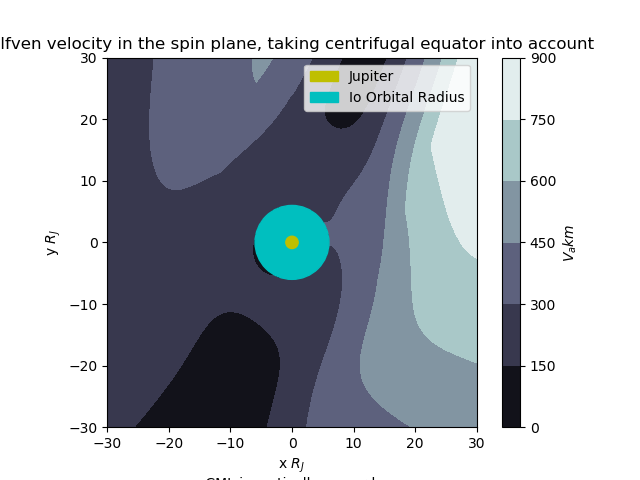
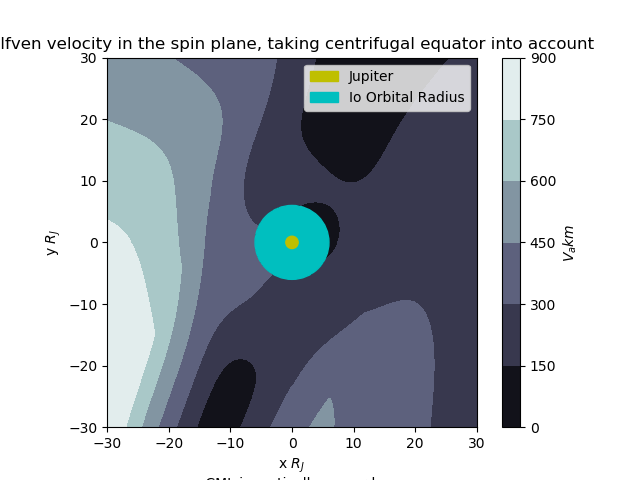
still being weird

diff --git a/alfven.py b/alfven.py
@@ -14,6 +14,7 @@ import scipy.special
 from density_height import DensityHeight
 from radial_outflow import radialOutflow
 from matplotlib import ticker, cm
+from field_and_current_sheet import InternalAndCS
 Rj = 7.14 * (10 ** 7)
 mu_0 = 1.25663706212 * 10 ** -6
 
@@ -29,6 +30,7 @@ class AlfvenVel:
         self.gridx, self.gridy = self.help.makegrid_2d_negatives(self.numpoints ,gridsize= self.stop)
         self.radialfunctions = radialOutflow(self.avgIonMass)
         self.field = field_models()
+        self.plotter = InternalAndCS()
 
     def calculator(self, B, n):
         magB = np.linalg.norm(B)
@@ -80,7 +82,9 @@ class AlfvenVel:
 
 
             Vas.append(Vas_row)
+
         Vas_km = np.array(Vas)/(1000)
+
         #log_vas_km = np.log(Vas_km)
         fig, ax = plt.subplots()
         cont = ax.contourf(self.gridx, self.gridy, Vas_km, cmap = 'bone')#, locator=ticker.LogLocator())
@@ -96,15 +100,18 @@ class AlfvenVel:
         plt.savefig('images/va_topdown.png')
         plt.show() 
 
-    def topdown_seperate_equators(self, spin_eq = 'on',):
+    def topdown_seperate_equators(self, spin_eq = 'on', density = 'off'):
         '''
         top down view from the spin equator - could be extended to do magnetic field eq too later on. 
         just takes into account the difference in density that will arise due to the different centrifugal equator
         '''
         if spin_eq == 'on':
-            self.spin_eq_topdown()
+            if density == 'on':
+                self.spin_eq_topdown(density='on')
+            else:
+                self.spin_eq_topdown()
     
-    def spin_eq_topdown(self):
+    def spin_eq_topdown(self, density = 'off'): #knowing what we now know about the co-ordinate transform you may want to check this! 
         '''  
         does the actual stuff for the topdown centrifugal equators thing
         '''
@@ -123,15 +130,15 @@ class AlfvenVel:
         #print(x_s, y_s)
 
         Vas = []
+        density_list = []
         for i in range(len(y_s)):
+
             print('new row, {} to go'.format(len(y_s)-i))
             Vas_row = [] 
+            density_row = []
             for j in range(len(x_s)):
                 r = np.sqrt((x_s[j])**2 + (y_s[i])**2)
                 phi = np.arctan2(y_s[i],x_s[j])
-                HeightAboveCent = self.help.height_centrifugal_equator(r, phi)
-                r_cent = self.help.length_centrifual_equator(r, phi)
-                scaleheight = self.densityfunctions.scaleheight(r_cent)
                 
 
                 
@@ -140,8 +147,17 @@ class AlfvenVel:
                     va = 1 *10 ** 2
                     Vas_row.append(va)
                     continue
-                n_0 = self.radialfunctions.radial_density(abs(r_cent))
-                n = self.densityfunctions.density(n_0, HeightAboveCent, scaleheight)
+                r_cent = r 
+                phi_cent = phi
+                theta_shift = self.help.centrifugal_equator(r, phi)
+                theta_cent = theta + theta_shift
+                
+                scaleheight = self.densityfunctions.scaleheight(r_cent)
+                n_0 = self.radialfunctions.radial_density(r_cent)
+                x_cent, y_cent, z_cent = self.help.sph_to_cart(r_cent, theta_cent, phi_cent)
+                den = self.densityfunctions.density(n_0, z_cent, scaleheight)
+                
+ 
                 
                 B_r, B_theta, B_phi = self.field.Internal_Field(r, theta, phi, model=self.model) #calculates the magnetic field due to the internal field in spherical polar that point)
                 B_current = self.field.CAN_sheet(r, theta, phi) #calculates the magnetic field due to the current sheet in spherical polar
@@ -150,12 +166,20 @@ class AlfvenVel:
                 B_x, B_y, B_z = self.help.Bsph_to_Bcart(B_overall[0], B_overall[1], B_overall[2], r, theta, phi)
                 B = np.array([B_x, B_y, B_z])
                 B = B/(10**9) #CHRIS code outputs nT
-                va = self.calculator(B, n)
+                va = self.calculator(B, den)
                 Vas_row.append(va)
-
+                density_row.append(den)
+                
+            #print(density_row)
             Vas.append(Vas_row)
-        Vas_km = np.array(Vas)/(1000)
+            density_list.append(density_row)
 
+
+        Vas_km = np.array(Vas)/(1000)
+        densities = np.array(density_list)
+        print(densities[0], '\n', densities[1])  
+        
+        print(densities.shape, '\n', Vas_km.shape)
         fig, ax = plt.subplots()
         cont = ax.contourf(self.gridx, self.gridy, Vas_km, cmap = 'bone')#, locator=ticker.LogLocator())
         ax.add_patch(Circle((0,0), 1, color='y', zorder=100, label = "Jupiter"))
@@ -163,12 +187,26 @@ class AlfvenVel:
         ax.legend()
         ax.set_xlim(-30,30)
         ax.set_ylim(-30,30)
-        degrees = theta * 180 /np.pi
         ax.set(xlabel = 'x $R_J$ \n CML is vertically upwards', ylabel = 'y $R_J$', title = 'alfven velocity in the spin plane, taking centrifugal equator into account')
         fig.colorbar(cont, label = '$V_a km$')
         ax.set_aspect('equal', adjustable = 'box')
         plt.savefig('images/va_topdown_inc_cent.png')
         plt.show() 
+        if density == 'on':
+        
+            fig, ax = plt.subplots()
+            cont = ax.contourf(self.gridx, self.gridy, densities, cmap = 'bone')#, locator=ticker.LogLocator())
+            ax.add_patch(Circle((0,0), 1, color='y', zorder=100, label = "Jupiter"))
+            ax.add_patch(Circle((0,0), 6, color='c', zorder=90, label = "Io Orbital Radius"))
+            ax.legend()
+            ax.set_xlim(-30,30)
+            ax.set_ylim(-30,30)
+            ax.set(xlabel = 'x $R_J$ \n CML is vertically upwards', ylabel = 'y $R_J$', title = 'density in the spin plane, taking centrifugal equator into account')
+            fig.colorbar(cont, label = 'Density $cm^-3$')
+            ax.set_aspect('equal', adjustable = 'box')
+            plt.savefig('images/va_topdown_inc_cent.png')
+            plt.show() 
+
 
     def sideview_seperate_equators(self):
         ''' 
@@ -207,8 +245,10 @@ class AlfvenVel:
                     Vas_row.append(va)
                     continue
                 n_0 = self.radialfunctions.radial_density(abs(r_cent))
-                n = self.densityfunctions.density(n_0, HeightAboveCent, scaleheight)
-                
+                n = self.densityfunctions.density(n_0, HeightAboveCent, scaleheight) 
+                ''' 
+                this is wrong as it doesn't include the height above the spin equator, just the height of the spin equator above the centrifigual equator!
+                ''' 
                 B_r, B_theta, B_phi = self.field.Internal_Field(r, theta, phi, model=self.model) #calculates the magnetic field due to the internal field in spherical polar that point)
                 B_current = self.field.CAN_sheet(r, theta, phi) #calculates the magnetic field due to the current sheet in spherical polar
                 B_notcurrent = np.array([B_r, B_theta, B_phi]) 
@@ -293,17 +333,73 @@ class AlfvenVel:
         plt.show()
     
         
-    def travel(self, startpoint):
+    def travel_time(self, startpoint = [30, np.pi/2, 0]):
         '''
         Calculate the travel path/time of an alfven wave from a given startpoint to the ionosphere. 
+        input startpoint [r, theta, phi] where r is in rj and phi is left handed
         ''' 
+        startpoint[0] = startpoint[0]*Rj
+        plot_results = self.plotter.trace_magnetic_field(starting_cordinates=startpoint, one_way='on')
+        points = np.array(plot_results[0])
+        Bs = np.array(plot_results[2]) /10e9
+        ''' 
+        this returns the path taken (in terms of point by point) taken by the alfven wave (points)
+        and the magnetic field at each points (Bs)
+        '''  
+        time = 0 
+        for i in range(len(points)-1):
+            start_point = points[i]
+            end_point = points[i+1]
+            difference = end_point - start_point
+            distance = np.linalg.norm(difference)
+            midpoint = end_point - difference/2
+            
+            B_start = Bs[i]
+            B_end = Bs[i+1]
+            magB_start = np.linalg.norm(B_start)
+            magB_end = np.linalg.norm(B_end)
+            averageB = (magB_end + magB_start)/2
+
+            ''' 
+            - this part is probably worth checking with Licia/someone
+            - approximates the alfven velocity by calculating B as halfway between B_start  and B_end 
+                and by calculating n half way between the two points
+            - will also have to add in the approximate function for n inside of Io radius
+            '''
+            r, theta, phi = self.help.cart_to_sph(midpoint[0], midpoint[1], midpoint[2])
+            r_cent = r 
+            phi_cent = phi
+            theta_shift = self.help.centrifugal_equator(r, phi)
+            theta_cent = theta + theta_shift
+            
+            scaleheight = self.densityfunctions.scaleheight(r_cent)
+            n_0 = self.radialfunctions.radial_density(r_cent)
+            x_cent, y_cent, z_cent = self.help.sph_to_cart(r_cent, theta_cent, phi_cent)
+            n = self.densityfunctions.density(n_0, z_cent, scaleheight)
+
+            va = self.calculator(averageB, n)
+            '''  
+            -later plan to improve this to a proper relativistic correction
+            ''' 
+            if va > 3e8:
+                va=0.9 * 3e8
+            traveltime = distance/va
+            time += traveltime
+        print('travel time = {:.2f}s (= {:.1f}mins)'.format(time, time/60))
+        return time
+
+
+            
+        
 
 
             
 
 
 test = AlfvenVel(numpoints=200)
-test.topdown_seperate_equators()
+#test.top_down_matched_equators()
+test.topdown_seperate_equators(density = 'on')
+test.travel_time([30, np.pi/2, 212* np.pi/180])
 
                 
 

diff --git a/field_and_current_sheet.py b/field_and_current_sheet.py
@@ -63,13 +63,14 @@ class InternalAndCS:
             self.starting_cordinates = starting_cordinates
 
     
-    def trace_magnetic_field(self, printing = 'off', starting_cordinates = None):
+    def trace_magnetic_field(self, printing = 'off', starting_cordinates = None, one_way = 'off'):
         if starting_cordinates == None:
             starting_cordinates = self.starting_cordinates
         coordinates = starting_cordinates
         coordinates[2] = 2*np.pi - coordinates[2] #changing from LH input to RH
         points = [] #this is the list that will eventually be plotted
         Br_list = []
+        B_list = []
         i = 0
         direction = 1
         while True:
@@ -78,6 +79,8 @@ class InternalAndCS:
             '''
             r = coordinates[0]
             if r <= 3 * Rj: #defines when the loop is broken out of 
+                if one_way == 'on':
+                    break
                 if direction == 1:
                     direction = -1
                     coordinates = starting_cordinates
@@ -101,6 +104,7 @@ class InternalAndCS:
             Br_list.append(B_overall[0])
             B_x, B_y, B_z = self.help.Bsph_to_Bcart(B_overall[0], B_overall[1], B_overall[2], coordinates[0], coordinates[1],coordinates[2]) #converts magnetic field to cartesian
             B = np.array([B_x, B_y, B_z])
+            B_list.append(B)
             #print(B)
             coordinates = [px,py,pz] #change the definition of the coordinates from spherical to cartesian 
             Bunit = self.help.unit_vector_cart(B) #calculates the unit vector in cartesian direction
@@ -118,7 +122,7 @@ class InternalAndCS:
                     print(' x= {}, y = {}, z =  {}'.format(px,py,pz))
                     print('bunit = {}, change = {}, dr = {} \n \n'.format(Bunit, change, dr))
  
-        return points, Br_list
+        return points, Br_list, B_list
 
 
 

diff --git a/helpful_functions.py b/helpful_functions.py
@@ -107,6 +107,12 @@ class HelpfulFunctions():
 
         return centrifualEq 
 
+    
+    '''
+    #################################### NOTE ######################################
+    THE TWO BELOW FUNCTIONS SHOULDN'T BE USED - i don't think they are effective, however i am loathe to delete them jic
+    '''
+    
     def height_centrifugal_equator(self, r, phi):
         ''' 
         Input the r, phi coordinates of a point on the spin equator of Jupiter
@@ -125,6 +131,7 @@ class HelpfulFunctions():
         latitude = self.centrifugal_equator(r, phi)
         d = r * np.cos(latitude)
         return d
+
 
         
 
